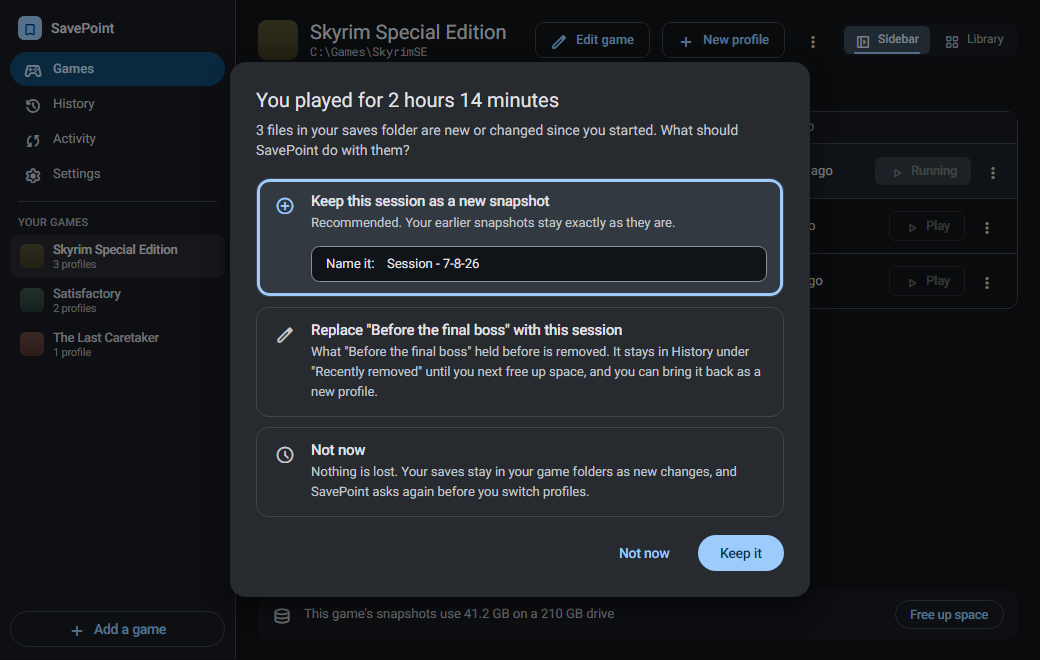
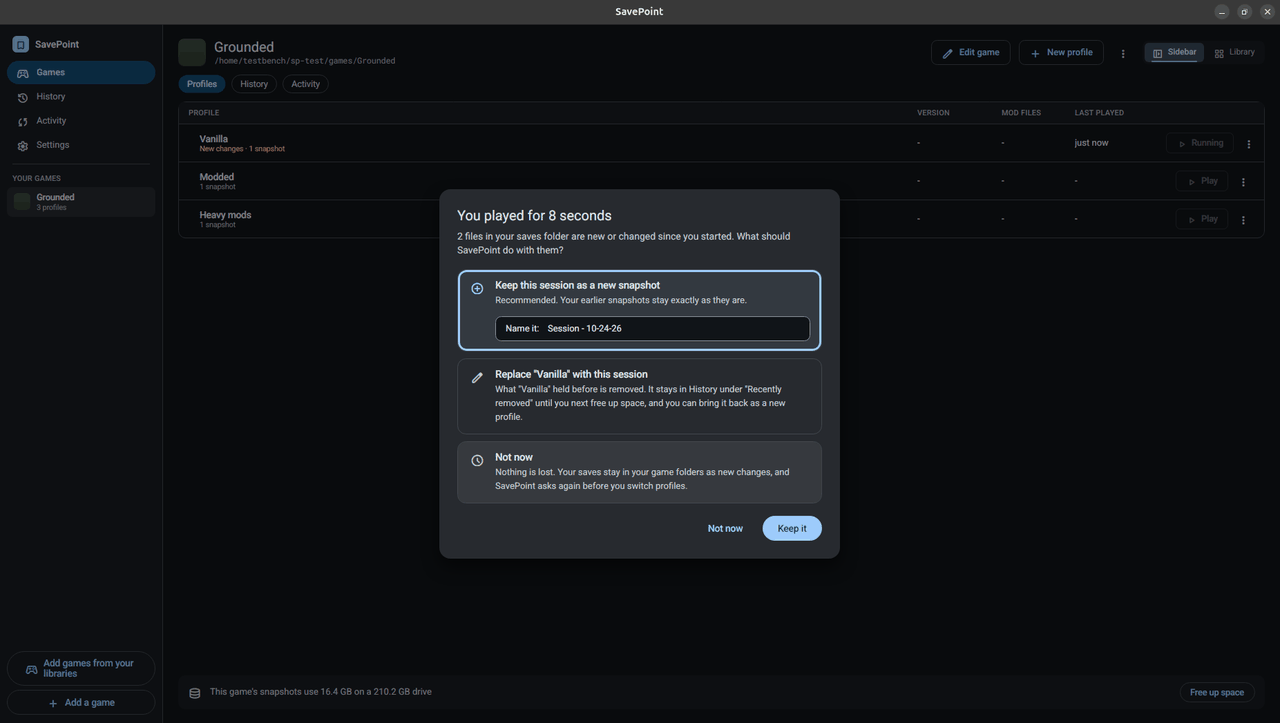
Show the app in the user guide with screenshots from 0.9.7
Ten screens taken on the Ubuntu test VM from a clean SavePoint with a
real game (Grounded): first run, adding a game, the first snapshot,
the profile list, the check before playing, the after-play choices,
History with Recently removed, Activity, and Settings. Each image has
alt text describing what it shows.

diff --git a/docs/user-guide.md b/docs/user-guide.md
@@ -22,6 +22,10 @@ SavePoint keeps its snapshots in a folder of its own, the snapshot folder. When 
 
 The first time you open SavePoint, it offers **Add your first game** or **Start from a template**. A template fills in the details for a known game, and you can also open a game settings file someone else exported. The first-run screen also tells you that SavePoint downloads cover art for Steam games from Steam. You can turn that off in Settings.
 
+The pictures in this guide come from SavePoint 0.9.7 on Linux. On Windows the screens look the same apart from the window's title bar.
+
+![The first-run screen: "Keep the setup that works", with buttons for Add your first game, Start from a template and Add games from your libraries, a How SavePoint works link, where SavePoint keeps its snapshots, and notes about cover art and anti-cheat.](images/first-run.png)
+
 ### Adding a game
 
 1. **Name** the game.
@@ -34,6 +38,8 @@ The first time you open SavePoint, it offers **Add your first game** or **Start 
    - **Files to leave out:** for example `**/*.log`. SavePoint never copies or replaces a file that matches, so logs and crash dumps never count as changes, and a switch leaves them alone. Only list files that don't matter, though. A rule that matches your saves would stop profiles from switching them. Rarely, a profile needs a file in a spot where one of these left-out files sits inside a folder with the same name. When that happens, SavePoint stops before changing anything and tells you which one, so you can move it yourself.
    - **Folders that hold mods:** these only change what History counts as a mod change.
 6. **Save changes**. SavePoint asks you to confirm each folder, because it takes snapshots of everything in it, and when you switch profiles it makes the folder match that profile. It adds a small file to each folder so it remembers you picked it.
+
+![Add a game, filled in for Grounded: the name, the install folder, the saves folder with common locations below it, Run the program set to Grounded.exe with the other programs found in the game folder, the note about starting through Steam, and the Artwork section.](images/add-game.png)
 
 Before you start:
 
@@ -59,7 +65,9 @@ On the Games screen, **New profile** walks you through three steps:
 
 1. **Name it:** a name and optional notes.
 2. **Check:** what goes into the first snapshot from each folder, and how much new space it takes. SavePoint reuses files it already has, so later profiles usually add very little.
-3. **Create:** **Create profile** takes the first snapshot. A big install takes a while the first time.
+3. **Create:** **Create profile** takes the first snapshot. A big install takes a while the first time. You can close the window and keep using SavePoint while it works; Activity shows how far it got, and you get a message when it's done.
+
+![New profile for Grounded on its last step: "Taking the first snapshot...", a progress bar at 9.3 GB of 12.1 GB copied, 60 of 128 files finished, the latest file, and the Cancel and Keep working buttons.](images/first-snapshot.png)
 
 The profile table shows, for each profile:
 
@@ -67,6 +75,8 @@ The profile table shows, for each profile:
 - how many snapshots it has;
 - its game version and mod files;
 - when you last played it.
+
+![The Games screen for Grounded with two profiles, Vanilla and Modded, each with one snapshot and a Play button. Modded is marked Loaded now. The footer says the game's snapshots use 12.1 GB on a 210.2 GB drive, next to Free up space.](images/profiles.png)
 
 Each row has **Play**, plus a menu with **Edit** (name, notes, version), **Take a snapshot now**, **Duplicate**, and **Delete**:
 
@@ -87,6 +97,8 @@ Press **Play** on a profile, or **Go back to this** on a snapshot in History. Be
   - **Keep as a new profile** is for when they don't belong to any profile, so nothing is lost.
   - **Discard them** asks you to confirm a second time, naming the folder and counting the files it deletes and puts back. This one is permanent.
 
+![The check before playing: Switch to "Vanilla"? It says the game stays on an unknown version and about 4.3 GB of files will be removed, taking less than a minute; the saves to load are Vanilla's latest save snapshot. Below are a tick box to skip this check when only saves change, Cancel and Switch and play.](images/before-playing.png)
+
 **Switch and play** puts the files in place, shows how much it's copied and roughly how long is left, and starts the game. While the game runs, SavePoint shows a running card. If SavePoint can't tell when you've stopped (some launchers hide the game), press **I'm done playing**.
 
 ### When you finish
@@ -96,6 +108,8 @@ SavePoint asks what to do with the session:
 - **Keep this session as a new snapshot** (recommended). Your earlier snapshots stay exactly as they are.
 - **Replace "<snapshot>" with this session.** That snapshot holds this session instead. Whatever it held before goes to History's **Recently removed** until the next time you free up space.
 - **Not now.** Nothing is lost. Your saves stay in your game folders as new changes, and SavePoint asks again before you switch profiles.
+
+![You played for 8 seconds: 2 files in the saves folder are new or changed. The choices are Keep this session as a new snapshot (recommended, with a name field), Replace "Vanilla" with this session, and Not now, with the Not now and Keep it buttons.](images/after-play.png)
 
 If you played from an older snapshot, the session can't just go on the end of the profile, so your choices are:
 
@@ -123,7 +137,11 @@ You can switch between the **List** and **Cards** views and filter by profile. T
 
 Both go through the same check of what will change that Play does.
 
+![History for Grounded in the Cards view: five snapshots from the last 7 days, two "Session" save snapshots, Heavy mods, Modded and Vanilla, each with its kind and time and a Go back to this button. The newest is marked Loaded now.](images/history.png)
+
 **Recently removed** lists the snapshots that "Replace" or "Continue" took off a profile. Each one stays there until the next time you free up space. **Bring back as a new profile** starts a profile from it and leaves the profile it came from as it is.
+
+![History with Recently removed open at the bottom: one session snapshot from "Vanilla", removed when it was continued from a session, with a Bring back as a new profile button and a note that SavePoint keeps these until the next time you free up space.](images/recently-removed.png)
 
 ## Activity
 
@@ -135,7 +153,11 @@ Both go through the same check of what will change that Play does.
 
 Clicking the job status indicator opens Activity too, and in the Sidebar layout the game's **Activity** tab does the same.
 
+![Activity for Grounded: a list of six finished jobs (snapshots, starting the game, switching files) and, on the right, the first snapshot of Vanilla, done, 12.1 GB of 12.1 GB, with its details listing the folders copied and the files that were new, and a Copy button.](images/activity.png)
+
 ## Settings
+
+![The top of Settings: Help with How SavePoint works and Show the tour again; where SavePoint keeps your snapshots, with the folder, 16.4 GB used by 1 game, 145.7 GB free and a Change button; Free up space with Run now; and Appearance with the theme, the Sidebar and Library layouts, the accent color and Look up game artwork online.](images/settings.png)
 
 - **Where SavePoint keeps your snapshots:** how much space your games use.
   - **Change** moves the snapshot folder to another folder or drive. SavePoint copies everything, checks every file, switches over, and then removes its old copy.
